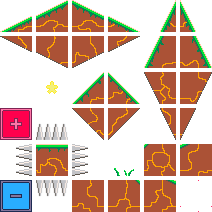
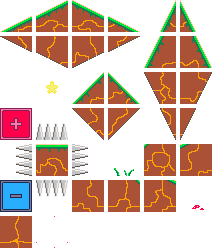
Add new tiles

diff --git a/lib/src/game/SceneBuilder.cpp b/lib/src/game/SceneBuilder.cpp
@@ -84,7 +84,8 @@ void SceneBuilder::generateColliders(
         return tile == Tile::Block || tile == Tile::MagNeg
                || tile == Tile::MagPlus || tile == Tile::Block2
                || tile == Tile::Block3 || tile == Tile::Block4
-               || tile == Tile::Block5 || tile == Tile::Block6;
+               || tile == Tile::Block5 || tile == Tile::Block6
+               || tile == Tile::Block7;
     };
 
     unsigned wholeBlockSequenceLength = 0;

diff --git a/lib/include/game/Tile.hpp b/lib/include/game/Tile.hpp
@@ -38,4 +38,6 @@ enum class [[nodiscard]] Tile
     Block4,
     Block5,
     Block6,
+    Shroom,
+    Block7,
 };
